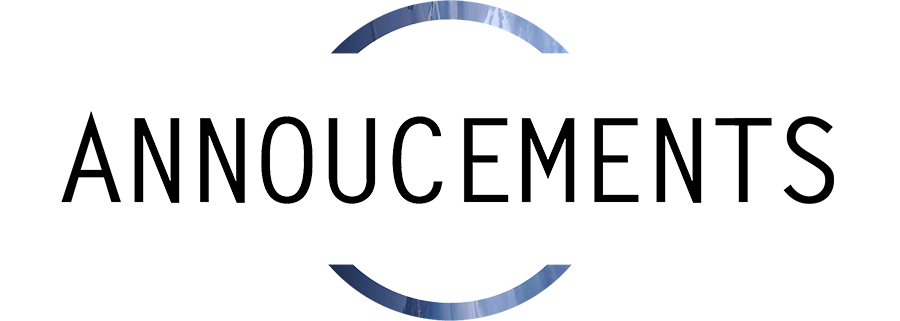
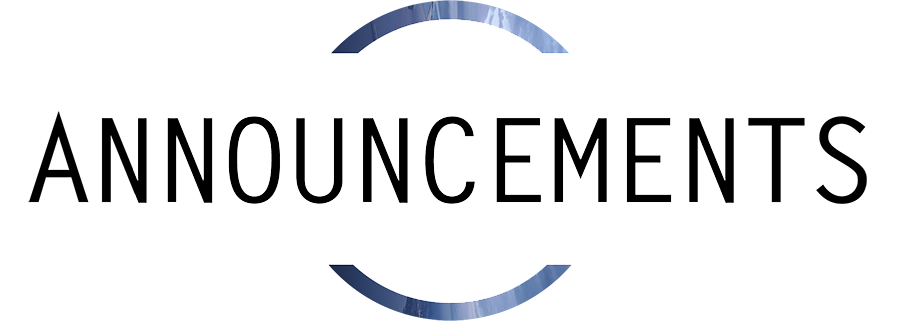
Added new header images

diff --git a/routes/routes.js b/routes/routes.js
@@ -114,7 +114,7 @@ router.get(["/live", "/live.html"], (req, res) => {
 	renderPage(req, res, "Converge TV", ["Youtube Live"], "livestream.pug", {pageTitle: "Live Stream"});
 });
 router.get(["/listen", "/listen.html"], (req, res) => {
-	renderPage(req, res, "Converge Listen", ["Listen"], "tiles.pug", {pageTitle: "Converge Listen", tvPage: false, missingHeaderImage: true});
+	renderPage(req, res, "Converge Listen", ["Listen"], "tiles.pug", {pageTitle: "Converge Listen", tvPage: false});
 });
 router.get(["/tv", "/tv.html"], (req, res) => {
 	renderPage(req, res, "Converge TV", ["Converge TV", "Speakers", "Topics"], "tiles.pug", {pageTitle: "Converge TV", tvPage: true});
@@ -140,14 +140,14 @@ router.get(["/hebrews", "/he-brews", "/hebrews.html", "/he-brews.html"], (req, r
 
 // Contact
 router.get(["/more-info", "/more-info.html"], (req, res) => {
-	renderPage(req, res, "Contact Responses", ["More Info"], "moreInfo.pug", _.merge(models.defaultFormRender, {pageTitle: "More Info", headerImage: "More_Info", csrfToken: req.csrfToken()}));
+	renderPage(req, res, "Contact Responses", ["More Info"], "moreInfo.pug", _.merge(models.defaultFormRender, {pageTitle: "More Info", csrfToken: req.csrfToken()}));
 });
 
 router.post(["/more-info", "/more-info.html"], (req, res) => {
 	processReCaptcha(req, function finishedProcessingReCaptcha (reCaptcha) {
 		// Sending to models.js for validation and sanitization.
 		var processedFormData = models.processForm("Contact Responses", "More Info", req.body, {reCaptcha: reCaptcha, expectedFields: ["name", "email", "phone", "message"]});
-		renderPage(req, res, "Contact Responses", ["More Info"], "moreInfo.pug", _.merge(processedFormData, {pageTitle: "More Info", headerImage: "More_Info", csrfToken: req.csrfToken()}));
+		renderPage(req, res, "Contact Responses", ["More Info"], "moreInfo.pug", _.merge(processedFormData, {pageTitle: "More Info", csrfToken: req.csrfToken()}));
 	});
 });
 
@@ -176,25 +176,17 @@ router.post(["/prayer", "/prayer.html"], (req, res) => {
 });
 
 router.get(["/baptism-and-confirmation", "/baptism-and-confirmation.html"], (req, res) => {
-	renderPage(req, res, "Contact Responses", ["Baptism and Confirmation"], "baptismConfirmation.pug", _.merge(models.defaultFormRender, {pageTitle: "Baptism & Confirmation", headerImage: "Baptism_Confirmation", csrfToken: req.csrfToken()}));
+	renderPage(req, res, "Contact Responses", ["Baptism and Confirmation"], "baptismConfirmation.pug", _.merge(models.defaultFormRender, {pageTitle: "Baptism & Confirmation", headerImage: "Baptism Confirmation", csrfToken: req.csrfToken()}));
 });
 
 router.post(["/baptism-and-confirmation", "/baptism-and-confirmation.html"], (req, res) => {
 	processReCaptcha(req, function finishedProcessingReCaptcha (reCaptcha) {
 		// Sending to models.js for validation and sanitization.
 		var processedFormData = models.processForm("Contact Responses", "Baptism and Confirmation", req.body, {reCaptcha: reCaptcha, expectedFields: ["name", "selection", "message"]});
-		renderPage(req, res, "Contact Responses", ["Baptism and Confirmation"], "baptismConfirmation.pug", _.merge(processedFormData, {pageTitle: "Baptism & Confirmation", headerImage: "Baptism_Confirmation", csrfToken: req.csrfToken()}));
+		renderPage(req, res, "Contact Responses", ["Baptism and Confirmation"], "baptismConfirmation.pug", _.merge(processedFormData, {pageTitle: "Baptism & Confirmation", headerImage: "Baptism Confirmation", csrfToken: req.csrfToken()}));
 	});
 });
 
 router.get(["/booking-time", "/booking-time.html"], (req, res) => {
-	renderPage(req, res, "Contact Responses", ["Booking Time"], "bookingTime.pug", _.merge(models.defaultFormRender, {pageTitle: "Booking Time", headerImage: "", csrfToken: req.csrfToken()}));
+	renderPage(req, res, "Contact Responses", ["Booking Time"], "bookingTime.pug", _.merge(models.defaultFormRender, {pageTitle: "Booking Time", csrfToken: req.csrfToken()}));
 });
-
-// router.post(["/booking-time", "/booking-time.html"], (req, res) => {
-// 	processReCaptcha(req, function finishedProcessingReCaptcha (reCaptcha) {
-// 		// Sending to models.js for validation and sanitization.
-// 		var processedFormData = models.processForm("Contact Responses", "Booking Time", req.body, {reCaptcha: reCaptcha, expectedFields: ["name", "selection", "message"]});
-// 		renderPage(req, res, "Contact Responses", ["Booking Time"], "bookingTime.pug", _.merge(processedFormData, {pageTitle: "Baptism & Confirmation", headerImage: "Baptism_Confirmation", csrfToken: req.csrfToken()}));
-// 	});
-// });
